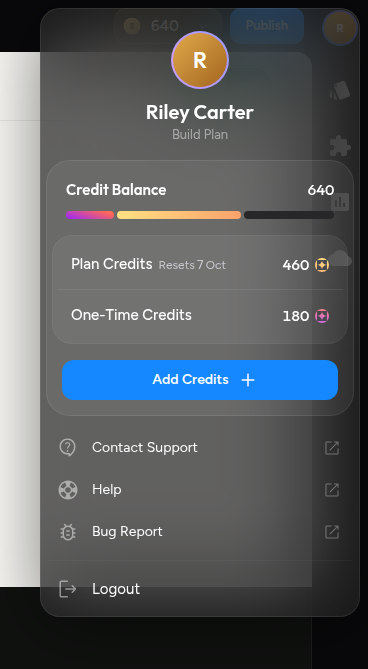
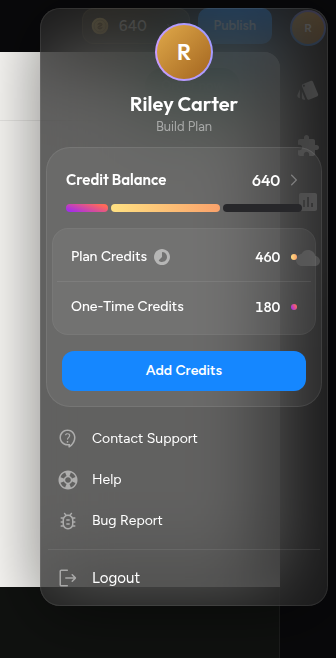
Account menu re-laid to the re-drawn board 31243:82905 (288 x 598)
Key dots instead of coins, chevron on the balance, reset date in the cycle
glyph's tooltip, inner card r16, no trailing glyphs, 8% divider; suite N updated.

Claude-Session: https://claude.ai/code/session_01GgVR4tjxwoC1Xrs2Gwx6Bd

diff --git a/prototype/src/modules/account/AccountMenu.tsx b/prototype/src/modules/account/AccountMenu.tsx
@@ -3,21 +3,26 @@
  * 29.09.2026: «вот макет с меню пользователя, это клик по аватару в правом верхнем углу… как в макете
  * меню перфект пиксель, а так же красивую анимацию открытия и закрытия в нашем стиле Apple liquid glass»).
  *
- * WHERE IT SITS — the board's `User menu` lies at x 2232, y 8 in the 2560 frame, 320 wide: top 8,
+ * WHERE IT SITS — the board's `User menu` lies at x 2264, y 8 in the 2560 frame, 288 wide: top 8,
  * right 8. It COVERS the avatar that opened it, the way the Publish panel covers its button; the glass
  * inflates out of the avatar's centre (20 px in from the menu's top-right corner).
  *
- * THE BOARD'S NUMBERS, 609 tall = header 152 + credits card 256 + list 193 + 8:
+ * THE BOARD'S NUMBERS (re-drawn 29.09.2026 — «я обновил дизайн меню пользователя»), 598 tall =
+ * header 139 + credits card 260 + list 191 + 8 (the first board was 320 × 609 = 152 + 256 + 193 + 8):
  *   · glass — `rgba(31,31,31,.7)` under a 40 px backdrop blur (the board's BACKGROUND_BLUR 80 is
  *     Figma's radius; CSS takes half), rim `Neutral Alpha/100` INSIDE, r20, `0 8 72` at 50 %.
  *     Glass for real here: what is behind it is the site and the rail, so the blur has work to do.
- *   · header — pt 24 / pb 16, avatar 56 (ring 2 px centred on its edge), gap 10, name Gilroy SemiBold
+ *   · header — pt 16 / pb 11, avatar 56 (ring 2 px centred on its edge), gap 10, name Gilroy SemiBold
  *     20/1.4, plan Proxima 13/1.4 on 48 %.
- *   · credits card — px 6, 6 % white under an 8 % rim INSIDE, r24: balance row pt 21 / px 20, the
- *     three-segment bar (pt 12 / pb 16, gap 3, h 8 r8), an inner card (6 % under a 4 % rim, r20,
- *     px 4) of two rows 54 / 53 with an 8 % hairline between, and `Add Credits` 40 r12 in p 16.
- *   · list — pt 12 / px 8: three rows 40 r8 (p 8, gap 12, glyph 24, 14/24) 2 apart, an inset hairline
- *     4 % 8 below, then `Logout` (15/24, pl 8 / pr 12) in a group with pr 4.
+ *   · credits card — px 6, 6 % white under an 8 % rim INSIDE, r24: balance row pt 21 / pl 20 / pr 16
+ *     (Gilroy Medium 16, cap-trimmed, + a 24 chevron on 32 % two apart), the three-segment bar (pt 12 /
+ *     pb 16, gap 3, h 8 r8), an inner card (6 % under a 4 % rim, r16, px 4) of two rows 53 / 52 with an
+ *     8 % hairline between — label 14 medium, figure Gilroy Medium 14 and, 11 to its right, a 6 px dot
+ *     in the figure's bar colour (the dot is the bar's legend) — and `Add Credits` 40 r12 in p 16, word
+ *     only. The plan row carries an 18 px cycle glyph where the first board printed «Resets 27 May»;
+ *     the date lives in its tooltip now (the board hides that text, it does not delete the fact).
+ *   · list — pt 12 / px 8: three rows 40 r8 (p 8, gap 12, glyph 24, 14/24) ONE apart and no trailing
+ *     glyph, an 8 % hairline 8 below, then `Logout` (15/24, pl 8 / pr 12) in a group with pr 4.
  *   ⚠ Every rim is an INSET SHADOW, never a `border` — Figma's stroke sits inside the geometry and a
  *   CSS border would take a pixel from every child (the fifth time this lesson has paid, design-system §5).
  *
@@ -37,7 +42,8 @@ import { useUI } from '@/state/ui'
 import { useWorld } from '@/state/world'
 import { useT } from '@/i18n'
 import { accountIn, accountInBody, accountInFade, accountRow, accountStill } from '@/ui/motion'
-import { IconAddWhite, IconBug, IconCoinSmall, IconHelp, IconLogout, IconOpenInNew, IconSupport } from './boardIcons'
+import { Tooltip } from '@/ui/Tooltip'
+import { CreditDot, IconBug, IconChevronRightS, IconHelp, IconLogout, IconPlanCycle, IconSupport } from './boardIcons'
 
 /** The demo account's holder — ours (the board's is a film character); `R` matches the rail's disc. */
 export const ACCOUNT_NAME = 'Riley Carter'
@@ -86,7 +92,8 @@ export function AccountMenu() {
   const extra = world.bonus ? Math.min(total, BONUS_LEFT) : 0
   const plan = total - extra
   const cap = Math.max(PLAN_MONTH, total)
-  const fmt = (n: number) => n.toLocaleString('en-US').replace(/,/g, ' ')
+  /* the board prints bare digits — «12000», «9000» — no group separator */
+  const fmt = (n: number) => String(n)
   /* the plan resets at the end of the 30-day cycle the trial day counts through */
   const reset = new Date(Date.now() + Math.max(1, 30 - world.trialDay) * 86_400_000)
   const resetDay = String(reset.getDate())
@@ -109,7 +116,6 @@ export function AccountMenu() {
       >
         <span className="text-[var(--white-480)]">{icon}</span>
         <span className="min-w-0 flex-1 text-[14px] leading-[24px] text-white">{label}</span>
-        <IconOpenInNew className="text-[var(--white-320)]" />
       </a>
     </Row>
   )
@@ -127,7 +133,7 @@ export function AccountMenu() {
           animate="animate"
           exit="exit"
           onUpdate={keepOnMainThread}
-          className="fixed right-2 top-2 z-50 w-[320px] rounded-[20px] backdrop-blur-[40px]"
+          className="fixed right-2 top-2 z-50 w-[288px] rounded-[20px] backdrop-blur-[40px]"
           style={{
             transformOrigin: 'calc(100% - 20px) 20px',
             background: 'rgba(31,31,31,0.7)',
@@ -137,8 +143,8 @@ export function AccountMenu() {
           {/* the rim catching the light as the glass forms (the Panel Arrival's glint) */}
           <span aria-hidden className="glass-glint" />
           <motion.div variants={reduce ? accountStill : accountInBody} onUpdate={keepOnMainThread} className="flex flex-col pb-2" style={{ transformOrigin: 'calc(100% - 20px) 20px' }}>
-            {/* ------------------------------------------------ header 152 */}
-            <div className="flex flex-col items-center px-6 pb-4 pt-6" data-account-header>
+            {/* ------------------------------------------------ header 139 */}
+            <div className="flex flex-col items-center px-6 pb-[11px] pt-4" data-account-header>
               <Row i={0}>
                 <div className="flex flex-col items-center gap-[10px]">
                   {/* avatar 56 — the ring is a 2 px stroke CENTRED on the edge, so it paints 58 and the
@@ -161,13 +167,17 @@ export function AccountMenu() {
               </Row>
             </div>
 
-            {/* ------------------------------------------------ credits card 256 */}
+            {/* ------------------------------------------------ credits card 260 */}
             <div className="px-1.5">
               <Row i={1}>
                 <div className="flex flex-col rounded-[24px]" style={{ background: 'rgba(255,255,255,0.06)', boxShadow: 'inset 0 0 0 1px var(--white-100)' }} data-account-credits>
-                  <div className="flex items-center justify-between px-5 pt-[21px]">
+                  {/* 45 = pt 21 + the chevron's 24 box */}
+                  <div className="flex items-center justify-between pl-5 pr-4 pt-[21px]" data-account-balance-row>
                     <span className="font-display text-[15px] font-semibold leading-[1.2] text-white">{t({ en: 'Credit Balance', uk: 'Баланс кредитів' })}</span>
-                    <span className="font-display text-[15px] font-medium tabular-nums leading-[1.2] text-white [text-box-edge:cap_alphabetic] [text-box-trim:trim-both]" data-account-balance>{fmt(total)}</span>
+                    <span className="flex items-center gap-0.5">
+                      <span className="font-display text-[16px] font-medium tabular-nums leading-[1.2] text-white [text-box-edge:cap_alphabetic] [text-box-trim:trim-both]" data-account-balance>{fmt(total)}</span>
+                      <IconChevronRightS className="text-[var(--white-320)]" />
+                    </span>
                   </div>
                   <div className="px-5 pb-4 pt-3">
                     <div className="flex h-2 w-full gap-[3px]" data-account-bar>
@@ -181,30 +191,28 @@ export function AccountMenu() {
                     </div>
                   </div>
                   <div className="px-1.5">
-                    {/* 296 × 109 with its 4 % stroke INSIDE: the rows start one pixel in on every side (the board's
-                        child sits at x 5, y 1, 286 × 107 — the frame's px 4 plus the stroke's 1) */}
-                    <div className="flex flex-col rounded-[20px] px-[5px] py-px" style={{ background: 'rgba(255,255,255,0.06)', boxShadow: 'inset 0 0 0 1px var(--white-050)' }}>
-                      {/* Plan credits — 54 = 18 + 21 + 15, the 8 % hairline inside the row's bottom */}
-                      <div className="flex items-start justify-between px-[14px] pb-[15px] pt-[18px]" style={{ boxShadow: 'inset 0 -1px 0 0 var(--white-100)' }}>
-                        <span className="flex items-baseline gap-1.5 whitespace-nowrap">
-                          <span className="text-[15px] font-medium leading-[1.4] text-white">{t({ en: 'Plan Credits', uk: 'Кредити плану' })}</span>
-                          <span className="flex items-baseline gap-0.5 text-[var(--gray-350)]">
-                            <span className="text-[12px] leading-[1.4]">{t({ en: 'Resets', uk: 'Оновлення' })}</span>
-                            <span className="font-display text-[13px] leading-[1.4]">{resetDay}</span>
-                            <span className="text-[12px] leading-[1.4]">{resetMonth}</span>
-                          </span>
+                    {/* 264 × 107 with its 4 % stroke INSIDE: the rows start one pixel in on every side (the board's
+                        child sits at x 5, y 1, 254 × 105 — the frame's px 4 plus the stroke's 1) */}
+                    <div className="flex flex-col rounded-[16px] px-[5px] py-px" style={{ background: 'rgba(255,255,255,0.06)', boxShadow: 'inset 0 0 0 1px var(--white-050)' }} data-account-inner>
+                      {/* Plan credits — 53 = 18 + 20 + 15, the 8 % hairline inside the row's bottom */}
+                      <div className="flex items-center justify-between px-[14px] pb-[15px] pt-[18px]" style={{ boxShadow: 'inset 0 -1px 0 0 var(--white-100)' }} data-account-plan-row>
+                        <span className="flex items-center gap-1.5 whitespace-nowrap">
+                          <span className="text-[14px] font-medium leading-5 text-white">{t({ en: 'Plan Credits', uk: 'Кредити плану' })}</span>
+                          <Tooltip text={t({ en: `Resets ${resetDay} ${resetMonth}`, uk: `Оновлення ${resetDay} ${resetMonth}` })}>
+                            <IconPlanCycle className="block text-[var(--white-480)]" />
+                          </Tooltip>
                         </span>
-                        <span className="flex items-center gap-1.5 self-stretch">
-                          <span className="font-display text-[15px] font-medium tabular-nums leading-[1.2] text-white" data-account-plan>{fmt(plan)}</span>
-                          <IconCoinSmall tone="plan" />
+                        <span className="flex items-center gap-[11px]">
+                          <span className="font-display text-[14px] font-medium tabular-nums leading-[1.2] text-white" data-account-plan>{fmt(plan)}</span>
+                          <CreditDot tone="plan" />
                         </span>
                       </div>
-                      {/* One-time credits — 53 = 15 + 21 + 17 */}
-                      <div className="flex items-center justify-between gap-6 px-[14px] pb-[17px] pt-[15px]">
-                        <span className="text-[15px] font-medium leading-[1.4] text-white">{t({ en: 'One-Time Credits', uk: 'Разові кредити' })}</span>
-                        <span className="flex items-center gap-1.5">
-                          <span className="font-display text-[15px] font-medium tabular-nums leading-[1.2] text-white" data-account-extra>{fmt(extra)}</span>
-                          <IconCoinSmall tone="extra" />
+                      {/* One-time credits — 52 = 15 + 20 + 17 */}
+                      <div className="flex items-center justify-between gap-6 px-[14px] pb-[17px] pt-[15px]" data-account-extra-row>
+                        <span className="text-[14px] font-medium leading-5 text-white">{t({ en: 'One-Time Credits', uk: 'Разові кредити' })}</span>
+                        <span className="flex items-center gap-[11px]">
+                          <span className="font-display text-[14px] font-medium tabular-nums leading-[1.2] text-white" data-account-extra>{fmt(extra)}</span>
+                          <CreditDot tone="extra" />
                         </span>
                       </div>
                     </div>
@@ -214,24 +222,23 @@ export function AccountMenu() {
                       type="button"
                       onClick={() => toggle(false)}
                       data-account-add
-                      className="press-bloom flex h-10 w-full items-center justify-center gap-[7px] overflow-hidden rounded-[12px] bg-[var(--action)] pl-5 pr-2 text-[14px] font-semibold leading-none text-white transition-colors duration-150 hover:bg-[var(--action-hover)] active:bg-[var(--action-pressed)]"
+                      className="press-bloom flex h-10 w-full items-center justify-center overflow-hidden rounded-[12px] bg-[var(--action)] px-5 text-[14px] font-semibold leading-none text-white transition-colors duration-150 hover:bg-[var(--action-hover)] active:bg-[var(--action-pressed)]"
                     >
                       {t({ en: 'Add Credits', uk: 'Додати кредити' })}
-                      <IconAddWhite className="text-white" />
                     </button>
                   </div>
                 </div>
               </Row>
             </div>
 
-            {/* ------------------------------------------------ list 193 */}
+            {/* ------------------------------------------------ list 191 */}
             <div className="flex flex-col gap-2 px-2 pt-3" data-account-list>
-              <div className="flex flex-col gap-0.5">
+              <div className="flex flex-col gap-px">
                 {listRow(2, <IconSupport />, t({ en: 'Contact Support', uk: 'Звернутися в підтримку' }), 'https://panel.dreamhost.com/?tree=support.msg')}
                 {listRow(3, <IconHelp />, t({ en: 'Help', uk: 'Довідка' }), 'https://help.dreamhost.com/')}
                 {listRow(4, <IconBug />, t({ en: 'Bug Report', uk: 'Повідомити про помилку' }), 'https://panel.dreamhost.com/?tree=support.msg')}
               </div>
-              <Row i={5}><span aria-hidden className="block h-px w-full bg-[var(--white-050)]" /></Row>
+              <Row i={5}><span aria-hidden className="block h-px w-full bg-[var(--white-100)]" /></Row>
               <div className="pr-1">
                 <Row i={6}>
                   <button

diff --git a/prototype/src/modules/account/boardIcons.tsx b/prototype/src/modules/account/boardIcons.tsx
@@ -4,8 +4,8 @@
  * cuts. Material Symbols 300 on a 24 grid, filled: the kit's own vectors, not redrawings.
  *
  * Every glyph paints `currentColor`, so the row decides the ink: leading icons sit at
- * `Icon/Default/Secondary` (48 % white), the "opens elsewhere" glyph at `Icon/Default/Tertiary`
- * (32 %), the Add Credits plus at white — the values the board's export carries on each path.
+ * `Icon/Default/Secondary` (48 % white), the balance chevron at `Icon/Default/Tertiary`
+ * (32 %) — the values the board's export carries on each path.
  */
 type P = { className?: string }
 const box = (cls?: string) => ({ width: 24, height: 24, viewBox: '0 0 24 24', fill: 'none', 'aria-hidden': true, className: cls } as const)
@@ -28,11 +28,6 @@ export const IconBug = ({ className }: P) => (
   </svg>
 )
 
-export const IconOpenInNew = ({ className }: P) => (
-  <svg {...box(className)}>
-    <path fill="currentColor" d="M6.7563 18.5837C6.38116 18.5837 6.06407 18.4541 5.80505 18.1951C5.54602 17.9361 5.4165 17.619 5.4165 17.2439V6.75678C5.4165 6.38164 5.54602 6.06456 5.80505 5.80553C6.06407 5.54651 6.38116 5.41699 6.7563 5.41699H11.1375C11.2913 5.41699 11.42 5.46845 11.5238 5.57137C11.6274 5.67414 11.6792 5.80178 11.6792 5.95428C11.6792 6.10678 11.6274 6.23588 11.5238 6.34158C11.42 6.44741 11.2913 6.50033 11.1375 6.50033H6.7563C6.69213 6.50033 6.63338 6.52706 6.58005 6.58053C6.52657 6.63387 6.49984 6.69262 6.49984 6.75678V17.2439C6.49984 17.308 6.52657 17.3668 6.58005 17.4201C6.63338 17.4736 6.69213 17.5003 6.7563 17.5003H17.2434C17.3075 17.5003 17.3663 17.4736 17.4196 17.4201C17.4731 17.3668 17.4998 17.308 17.4998 17.2439V12.8626C17.4998 12.7089 17.5512 12.5801 17.654 12.4764C17.7569 12.3728 17.8846 12.321 18.0371 12.321C18.1896 12.321 18.3187 12.3728 18.4244 12.4764C18.5303 12.5801 18.5832 12.7089 18.5832 12.8626V17.2439C18.5832 17.619 18.4537 17.9361 18.1946 18.1951C17.9356 18.4541 17.6185 18.5837 17.2434 18.5837H6.7563ZM17.4998 7.27428L10.455 14.3193C10.3396 14.4346 10.2154 14.4901 10.0823 14.486C9.94942 14.4816 9.82255 14.4191 9.70171 14.2985C9.58102 14.1776 9.52067 14.0486 9.52067 13.9114C9.52067 13.7741 9.58102 13.6451 9.70171 13.5243L16.7259 6.50033H14.5415C14.3878 6.50033 14.2591 6.44894 14.1555 6.34616C14.0517 6.24324 13.9998 6.11553 13.9998 5.96303C13.9998 5.81053 14.0517 5.68144 14.1555 5.57574C14.2591 5.46991 14.3878 5.41699 14.5415 5.41699H17.9132C18.1044 5.41699 18.2639 5.48088 18.3915 5.60866C18.5193 5.7363 18.5832 5.89574 18.5832 6.08699V9.45866C18.5832 9.61241 18.5317 9.74109 18.4288 9.8447C18.326 9.94845 18.1984 10.0003 18.0459 10.0003C17.8934 10.0003 17.7643 9.94845 17.6586 9.8447C17.5528 9.74109 17.4998 9.61241 17.4998 9.45866V7.27428Z" />
-  </svg>
-)
 
 export const IconLogout = ({ className }: P) => (
   <svg {...box(className)}>
@@ -40,34 +35,36 @@ export const IconLogout = ({ className }: P) => (
   </svg>
 )
 
-export const IconAddWhite = ({ className }: P) => (
-  <svg {...box(className)}>
-    <path fill="currentColor" d="M11.25 12.75H6.25C6.0375 12.75 5.85942 12.6781 5.71575 12.5342C5.57192 12.3904 5.5 12.2122 5.5 11.9997C5.5 11.7871 5.57192 11.609 5.71575 11.4655C5.85942 11.3218 6.0375 11.25 6.25 11.25H11.25V6.25C11.25 6.0375 11.3219 5.85942 11.4658 5.71575C11.6096 5.57192 11.7878 5.5 12.0003 5.5C12.2129 5.5 12.391 5.57192 12.5345 5.71575C12.6782 5.85942 12.75 6.0375 12.75 6.25V11.25H17.75C17.9625 11.25 18.1406 11.3219 18.2843 11.4658C18.4281 11.6096 18.5 11.7878 18.5 12.0003C18.5 12.2129 18.4281 12.391 18.2843 12.5345C18.1406 12.6782 17.9625 12.75 17.75 12.75H12.75V17.75C12.75 17.9625 12.6781 18.1406 12.5342 18.2843C12.3904 18.4281 12.2122 18.5 11.9997 18.5C11.7871 18.5 11.609 18.4281 11.4655 18.2843C11.3218 18.1406 11.25 17.9625 11.25 17.75V12.75Z" />
+
+/** The plan's cycle — an 18 px pie filling clockwise (board 31263:84399), 48 % white on its path. */
+export const IconPlanCycle = ({ className }: P) => (
+  <svg width={18} height={18} viewBox="0 0 18 18" fill="none" aria-hidden className={className}>
+    <path fill="currentColor" d="M9 14C10.3889 14 11.5694 13.5139 12.5417 12.5417C13.5139 11.5694 14 10.3889 14 9C14 7.77778 13.6076 6.71181 12.8229 5.80208C12.0382 4.89236 11.0417 4.31944 9.83333 4.08333C9.61111 4.05556 9.41667 4.11806 9.25 4.27083C9.08333 4.42361 9 4.61111 9 4.83333V9L6.04167 11.9583C5.88889 12.1111 5.81597 12.2986 5.82292 12.5208C5.82986 12.7431 5.92361 12.9236 6.10417 13.0625C6.50694 13.3819 6.95833 13.6181 7.45833 13.7708C7.95833 13.9236 8.47222 14 9 14ZM9 17C7.90278 17 6.86806 16.7917 5.89583 16.375C4.92361 15.9583 4.07292 15.3854 3.34375 14.6562C2.61458 13.9271 2.04167 13.0764 1.625 12.1042C1.20833 11.1319 1 10.0972 1 9C1 7.88889 1.20833 6.85069 1.625 5.88542C2.04167 4.92014 2.61458 4.07292 3.34375 3.34375C4.07292 2.61458 4.92361 2.04167 5.89583 1.625C6.86806 1.20833 7.90278 1 9 1C10.1111 1 11.1493 1.20833 12.1146 1.625C13.0799 2.04167 13.9271 2.61458 14.6562 3.34375C15.3854 4.07292 15.9583 4.92014 16.375 5.88542C16.7917 6.85069 17 7.88889 17 9C17 10.0972 16.7917 11.1319 16.375 12.1042C15.9583 13.0764 15.3854 13.9271 14.6562 14.6562C13.9271 15.3854 13.0799 15.9583 12.1146 16.375C11.1493 16.7917 10.1111 17 9 17Z" />
   </svg>
 )
 
-/**
- * The credit coin, 14 — ONE drawing in two metals: plan credits in the toolbar's gold
- * (#FFE082 → #FA9F6A), one-time credits in the bonus bar's coral → violet (#FF8375 → #C260FF).
- * The gradient ids carry the tone so two coins on one page never share a paint server.
- */
-export const IconCoinSmall = ({ tone }: { tone: 'plan' | 'extra' }) => {
-  const id = `acct-coin-${tone}`
-  const [a, b] = tone === 'plan' ? ['#FFE082', '#FA9F6A'] : ['#FF8375', '#C260FF']
-  const g = tone === 'plan' ? { x1: 8.94445, y1: 0.388889, x2: 1.16667, y2: 19.8333 } : { x1: 13.6111, y1: -2.33333, x2: 11.9398, y2: 19.088 }
-  return (
-    <svg width="14" height="14" viewBox="0 0 14 14" fill="none" aria-hidden className="flex-none">
-      <circle cx="7" cy="7" r="7" fill={`url(#${id})`} />
-      <path d="M7.00293 2.05664H11.9492V7.00296C9.21787 7.00296 7.00293 4.78593 7.00293 2.05664Z" fill="#47474E" />
-      <path d="M2.05371 7.00586V2.05954H7C7 4.7909 4.78299 7.00586 2.05371 7.00586Z" fill="#47474E" />
-      <path d="M7.00293 11.9523H2.05664V7.00602C4.78799 7.00602 7.00293 9.22305 7.00293 11.9523Z" fill="#47474E" />
-      <path d="M11.9487 7.00586V11.9522L7.00293 11.9523C7.00293 9.22098 9.21946 7.00586 11.9487 7.00586Z" fill="#47474E" />
-      <defs>
-        <linearGradient id={id} x1={g.x1} y1={g.y1} x2={g.x2} y2={g.y2} gradientUnits="userSpaceOnUse">
-          <stop stopColor={a} />
-          <stop offset="1" stopColor={b} />
+/** The balance row's trailing chevron (board 31266:84477 — the kit's `chevron_right`), 32 % white. */
+export const IconChevronRightS = ({ className }: P) => (
+  <svg {...box(className)}>
+    <path fill="currentColor" d="M13.4711 12.0003L9.19784 7.72731C9.05951 7.5888 8.98867 7.43556 8.98534 7.26756C8.98217 7.09972 9.05301 6.94331 9.19784 6.79831C9.34284 6.65347 9.49767 6.58106 9.66234 6.58106C9.82701 6.58106 9.98184 6.65347 10.1268 6.79831L14.7711 11.4426C14.9351 11.6067 15.0171 11.7926 15.0171 12.0003C15.0171 12.208 14.9351 12.3939 14.7711 12.5581L10.1268 17.2023C9.98834 17.3406 9.83926 17.4115 9.67959 17.4148C9.52009 17.418 9.36784 17.3471 9.22284 17.2023C9.07801 17.0573 9.00559 16.9025 9.00559 16.7378C9.00559 16.5731 9.07801 16.4183 9.22284 16.2733L13.4711 12.0003Z" />
+  </svg>
+)
+
+/** The 6 px key dot beside each credit figure — the SAME gradient as its segment of the bar
+ *  (board ellipses 31261:84395 plan / 31261:84397 one-time, gradient vectors copied from the export). */
+export const CreditDot = ({ tone }: { tone: 'plan' | 'extra' }) => (
+  <svg width={6} height={6} viewBox="0 0 6 6" fill="none" aria-hidden data-account-dot={tone} className="shrink-0">
+    <defs>
+      {tone === 'plan' ? (
+        <linearGradient id="acct-dot-plan" x1="-0.0731707" y1="3" x2="6.27439" y2="3" gradientUnits="userSpaceOnUse">
+          <stop stopColor="#FFE082" /><stop offset="1" stopColor="#FA9F6A" />
         </linearGradient>
-      </defs>
-    </svg>
-  )
-}
+      ) : (
+        <linearGradient id="acct-dot-extra" x1="6.19565" y1="3" x2="0.545218" y2="5.73912" gradientUnits="userSpaceOnUse">
+          <stop stopColor="#FF6959" /><stop offset="1" stopColor="#A22CEC" />
+        </linearGradient>
+      )}
+    </defs>
+    <circle cx="3" cy="3" r="3" fill={`url(#acct-dot-${tone})`} />
+  </svg>
+)

diff --git a/docs/knowledge/decisions.md b/docs/knowledge/decisions.md
@@ -113,6 +113,7 @@
 | 29.09.2026 | **Полёт в карточку — один масштаб по ширине + клип снизу; слой на время парковки выше канваса** | Аспект карточки борда (1.40) не аспект канваса (1.87): раздельный масштаб растянул бы сайт, а по ширине канвас в карточке — 201 из 268 и под сайтом тёмная полоса. Высота пишется один раз, не по кадру | принято | `park.ts` `cardClip` / `parkH`, `SitesShelf.tsx` `PickFlight` |
 | 29.09.2026 | **Меню аккаунта под аватаром рейла — по борду `31243:82905`, стекло 320 × 609 r20, растёт из аватара** | Дизайнер: «меню пользователя… клик по аватару… перфект пиксель… анимацию открытия и закрытия в нашем стиле Apple liquid glass». Язык входа — Panel Arrival (спринг .68 / .2, содержимое на такт позже, блик рима), уход 140 мс плоско; меню и панель Publish взаимоисключающие | принято | `modules/account/AccountMenu.tsx`, `motion.ts` `accountIn`, `ui.accountOpen`, блок N сюиты |
 | 29.09.2026 | **Цифры кредитов в меню — из мира, а не с борда** | Борд печатает 250.2 / 7.20 / 2.80 — не складываются и дробные. Баланс = число в тулбаре, план + разовые = баланс; имя «Riley Carter» и буква-аватар вместо фото актёра | наше, спрошено | `AccountMenu.tsx` |
+| 29.09.2026 | **Меню аккаунта переложено по перерисованному борду: 288 × 598, точки-легенды вместо монет, шеврон у баланса, дата сброса — в тултип глифа цикла** | Дизайнер обновил борд `31243:82905` («найди все изменения и сделай как в макете пиксель ту пиксель»). Замер на 2560 — [2264, 8, 288, 598], координаты борда. Тултип с датой наш: борд прячет текст «Resets», а не факт | принято (тултип — спрошено) | `AccountMenu.tsx`, `boardIcons.tsx`, блок N |
 | 24.09.2026 | **Окно Analytics — четвёртая поверхность канваса, по борду 30934:93319 / дашборд 30934:94405** | Заказ: «следующее окно это аналитика / вот макет / сделай перфект пиксель как в макете». Пять метрик над недельным графиком и четыре разбивки. Колонка меню на борде СКРЫТА — у аналитики нет комнат, поэтому лист идёт во всю ширину и рампы под меню нет. Все ободы — inset-тени (пятый раз после чек-аут-шита, карточки генерации, блока страницы плана и карточки подключения): иначе ни одна из измеренных бордом высот не закрывается. Замер на живой сборке: карточка метрик 500.09 (борд 500), полоса вкладок 99.09 (99), карточки 314/314/311/311, ось 0 · 79.75 · 159.5 · 239.25 · 319 | принято | `modules/analytics/AnalyticsSurface.tsx`, `data/analytics.ts`, `flags.tsx`, `state/ui.ts`, `App.tsx` |
 | 24.09.2026 | **Акцент Analytics в рейле — зелёный `#66bb6a` / `rgba(102,187,106,.10)`, а не янтарный `#ffb300` с листа состояний 17471:40596** | Вместе с бордом дизайнер прислал САМУ кнопку — зелёная плитка под зелёным глифом, — и борд красит тем же зелёным всё окно (кольцо и лейбл выбранной вкладки, дельты, линию графика). Это не косметика: кромка разворачивающегося окна горит в тоне РЕЙЛА (`CanvasPane`, `tone`), поэтому зелёное окно не может расти из янтарной кнопки. Замер по его скриншоту: глиф (99,174,115) после сжатия ближе к #66bb6a, чем к зелёному Style #50b97b | принято (заменяет чтение листа состояний от 22.09) | `App.tsx` `RAIL`, `CLAUDE.md` |
 | 24.09.2026 | **Ось Y графика оставлена как нарисована — 100 · 80 · 60 · 20 · 0 на пяти равных линиях** | Зазоры по 79.75, шаги 20 · 20 · **40** · 20: одна ступень неверна, но единственного правильного значения НЕТ — пять равных линий от 100 до 0 это 100/75/50/25/0, а 100/80/60/40/20/0 требует шестой линии. Правило дома: опечатку с одним верным значением шипим исправленной, структурную ошибку воспроизводим и спрашиваем | принято, вопрос открыт | `AnalyticsSurface.tsx` |

diff --git a/docs/knowledge/design-system.md b/docs/knowledge/design-system.md
@@ -4262,16 +4262,16 @@ o 1 → 0 за ~110 мс от первого сдвинувшегося кадр
 
 ### Меню аккаунта: стекло растёт из аватара — Account Menu (заказ дизайнера, 29.09.2026)
 
-Борд `31243:82905`. Клик по аватару рейла открывает стеклянное меню 320 × 609 r20 (`rgba(31,31,31,.7)`, blur 40 — у борда
+Борд `31243:82905` (перерисован 29.09.2026 — было 320 × 609). Клик по аватару рейла открывает стеклянное меню 288 × 598 r20 (`rgba(31,31,31,.7)`, blur 40 — у борда
 BACKGROUND_BLUR 80, это та же сила в CSS-единицах, рим `--white-100` внутренней тенью, тень `0 8 72` на 50 %), в 8 от
-верха и правой кромки окна — накрывает свой аватар. Внутри: шапка 152 (аватар 56 в кольце, имя Gilroy 20, строка плана
-13/18), карточка кредитов 308 × 256 (баланс, сегментированная полоса, вложенная карточка «план / разовые», синяя
-`Add Credits` 40), три ряда-ссылки 40 с зазором 2, волосок, `Logout`.
+верха и правой кромки окна — накрывает свой аватар. Внутри: шапка 139 (аватар 56 в кольце, имя Gilroy 20, строка плана
+13/18), карточка кредитов 276 × 260 (баланс с шевроном, сегментированная полоса, вложенная карточка r16 «план / разовые» с
+точками-легендами 6 px в цвет сегментов, синяя `Add Credits` 40), три ряда 40 с зазором 1, волосок 8 %, `Logout`.
 **Моушен — язык Panel Arrival:** стекло .92 → 1 со спуском 6 px из центра аватара (`transform-origin: calc(100% − 20px)
 20px`), спринг .68 / bounce .2 (перелёт ~1.001), непрозрачность 220 мс; содержимое на 100 мс позже фокусируется 1.03 → 1;
 ряды каскадом по 30 мс; рим ловит свет `.glass-glint`. Уход — 140 мс плоско к .95. Все фейды на главном потоке
 (`keepOnMainThread`). Под reduce — только фейд. Меню и панель Publish не бывают открыты вместе.
-Все обода — inset-тени: вложенная карточка кредитов сидит на `px 5 / py 1`, иначе карточка 254 вместо 256.
+Все обода — inset-тени: вложенная карточка кредитов сидит на `px 5 / py 1`, иначе она 105 вместо 107.
 
 ### Переключатель сайтов: сайт улетает в свою карточку — Site Switcher (заказ дизайнера, 25.09.2026)
 

diff --git a/CLAUDE.md b/CLAUDE.md
@@ -3373,8 +3373,12 @@ Proxima Nova, а на Figtree читаются сдвинутыми вниз (в
 - ✅ **МЕНЮ АККАУНТА — КЛИК ПО АВАТАРУ РЕЙЛА, борд `31243:82905` (29.09.2026: «меню пользователя… перфект пиксель… анимацию
   открытия и закрытия в нашем стиле Apple liquid glass»).** `modules/account/AccountMenu.tsx`, глифы борда (Plugin API) —
   `boardIcons.tsx`, ось `ui.accountOpen` (`toggleAccount`; взаимоисключается с панелью Publish, `goHome` закрывает).
-  Стекло 320 × 609 r20 в 8 от верха и правой кромки, накрывает аватар: шапка 152, карточка кредитов 308 × 256, ряды 40,
-  `Logout`. Вход — Panel Arrival из центра аватара (.92 → 1, спринг .68 / .2, содержимое на такт позже, блик), уход 140 мс.
+  Стекло **288 × 598** r20 в 8 от верха и правой кромки, накрывает аватар: шапка 139, карточка кредитов 276 × 260, ряды 40
+  через 1, `Logout`. ✅ **Борд ПЕРЕРИСОВАН в тот же день** («я обновил дизайн меню пользователя»): уже на 32 и ниже на 11,
+  у баланса шеврон 24 на 32 %, цифры кредитов 14 с точкой-легендой 6 px в цвет своего сегмента полосы (вместо монет),
+  «Resets 27 May» спрятан — на его месте глиф цикла 18, а дата ушла в его тултип (наше), вложенная карточка r16, у
+  `Add Credits` нет «+», у рядов нет стрелки «открыть снаружи», волосок 8 % (был 4 %). Числа печатаются без разделителя,
+  как на борде («12000»), — тулбар пишет «1 000»: расхождение спрошено. Вход — Panel Arrival из центра аватара (.92 → 1, спринг .68 / .2, содержимое на такт позже, блик), уход 140 мс.
   Замер на 2560 — числа борда в ноль; блок N `check:brief`. ⚠ **Цифры — из `world.credits`, не с борда** (его 250.2 /
   7.20 / 2.80 не складываются): баланс = тулбар, план + разовые = баланс. ⚠ Наше и спрошено: имя «Riley Carter» и буква
   вместо фото, ссылки рядов (support / help), `Add Credits` инертна, `Logout` → домашняя; над белым сайтом стекло светлее,
